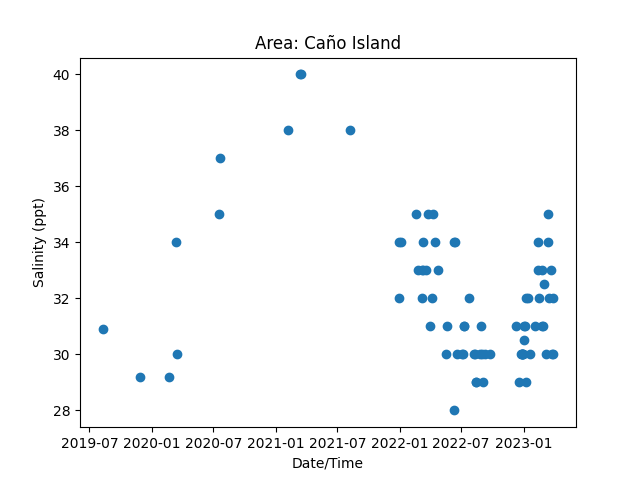
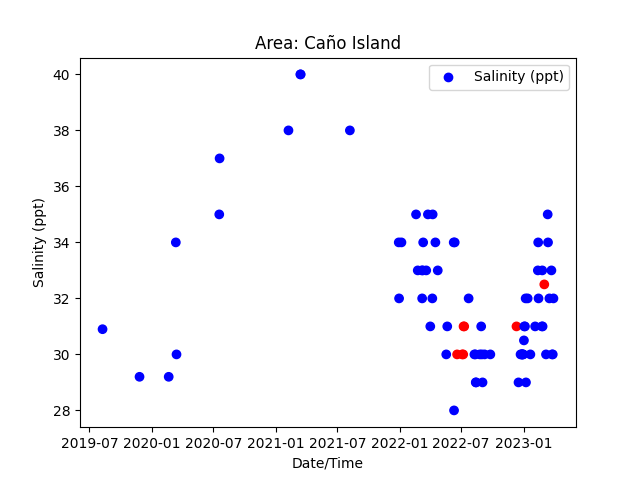
Jetzt mit roten Punkten

diff --git a/plot.py b/plot.py
@@ -13,6 +13,8 @@ data_top = df.head()
 # find different areas
 area_frame = df['Area'].unique()
 
+colors ={'yes':'red', 'no':'blue', 'Yes': 'red','No':'blue'}
+
 for anarea in area_frame:
     print (anarea)
     areaframe = df[df['Area']==anarea]
@@ -20,25 +22,28 @@ for anarea in area_frame:
     print ( areaframe['Water Temperature (degrees C)'])
     titleString = "Area: " + anarea
     plt.title (titleString)
-    plt.plot(areaframe["Date"], areaframe["Water Temperature (degrees C)"], 'o', label ='Water temperature')
+    plt.scatter(areaframe["Date"], areaframe["Water Temperature (degrees C)"], c=areaframe["Red tide ?"].map(colors), label ='Water temperature')
     plt.xlabel("Date/Time")
     plt.ylabel("T [C]")
     #plt.show()
     fileName = anarea+"_temperature.png"
+    plt.legend()
     plt.savefig(fileName)
     plt.clf()
     plt.title (titleString)
-    plt.plot(areaframe["Date"], areaframe["Salinity (ppt)"], 'o',label = "Salinity (ppt)")
+    plt.scatter(areaframe["Date"], areaframe["Salinity (ppt)"],c=areaframe["Red tide ?"].map(colors),label = "Salinity (ppt)")
     plt.ylabel("Salinity (ppt)")
     plt.xlabel("Date/Time")
     #plt.show()
+    plt.legend()
     fileName = anarea+"_Salinity.png"
     plt.savefig(fileName)
     plt.clf()
     plt.title (titleString)
-    plt.plot(areaframe["Date"], areaframe["O2 (mg/L)"], 'o',label = "O2 (mg/L)")
+    plt.scatter(areaframe["Date"], areaframe["O2 (mg/L)"],c=areaframe["Red tide ?"].map(colors), label = "O2 (mg/L)")
     plt.ylabel("O2 (mg/L)")
     plt.xlabel("Date/Time")
+    plt.legend()
     #plt.show()
     fileName = anarea+"_oxygen.png"
     plt.savefig(fileName)
